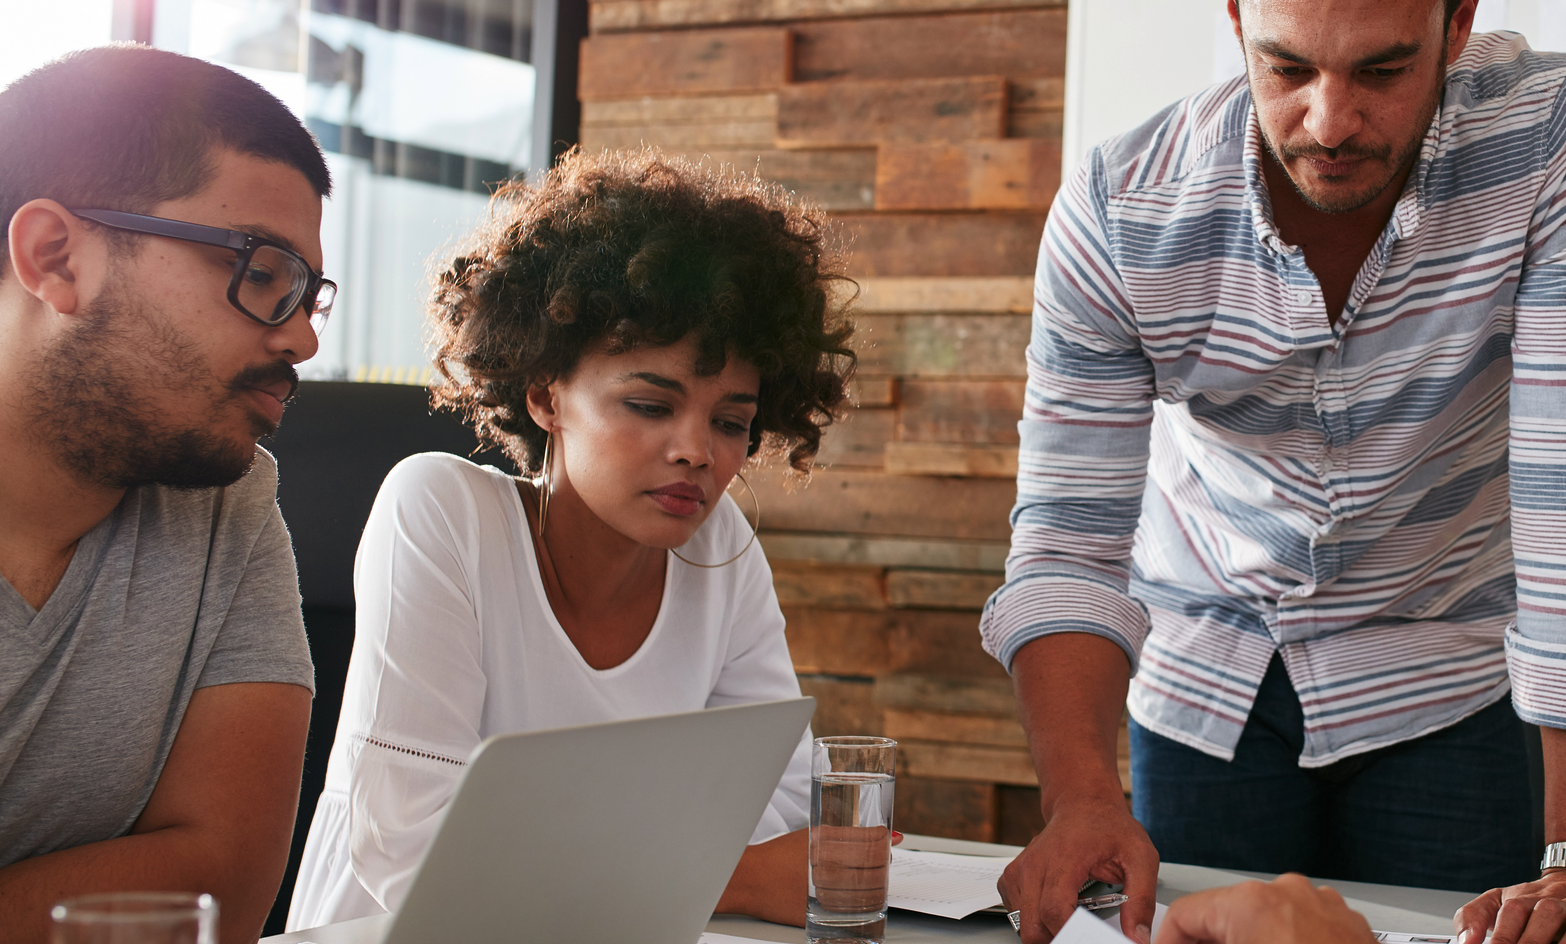
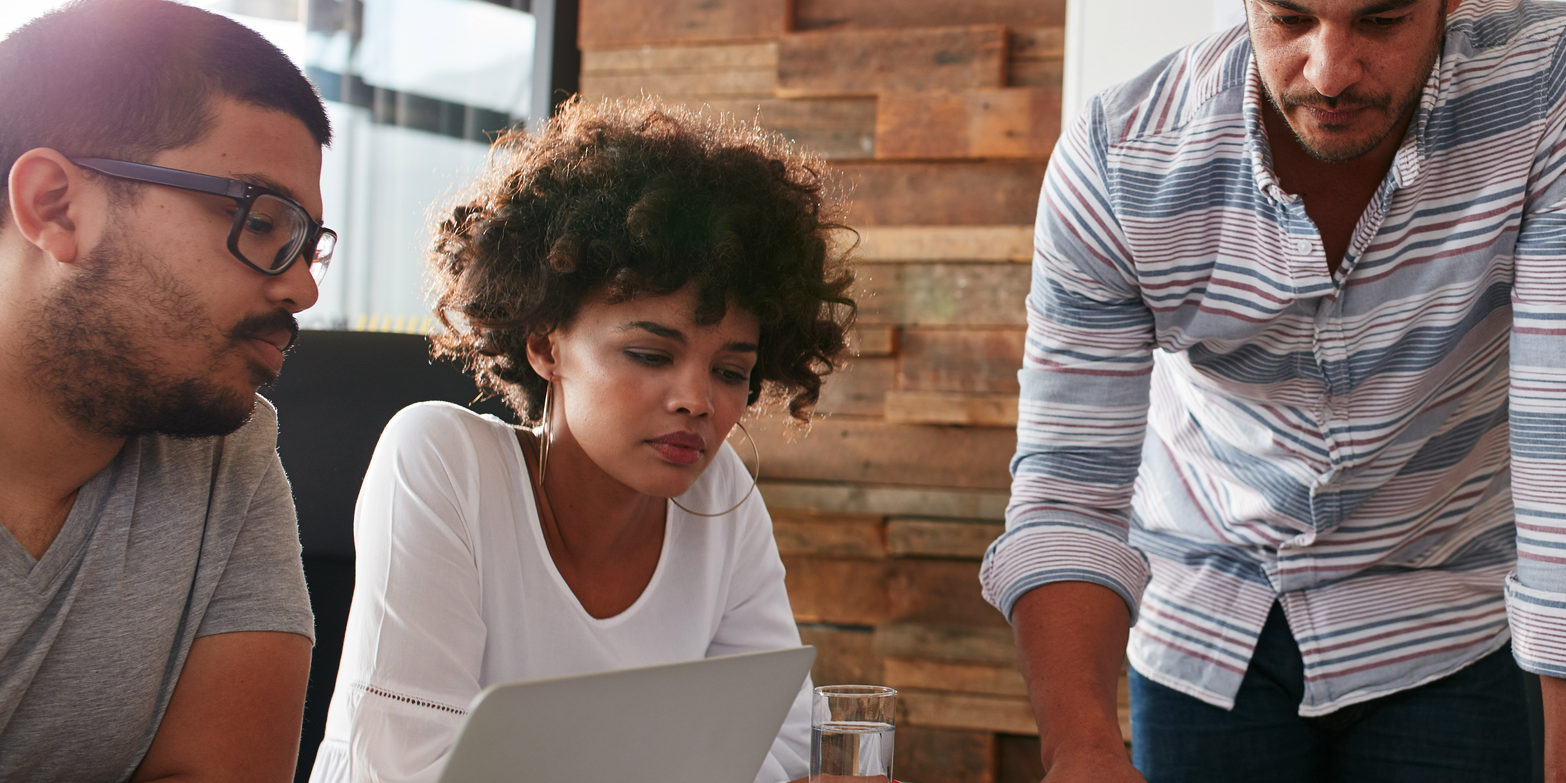
another approach to flexbox

diff --git a/styles.css b/styles.css
@@ -1,23 +1,22 @@
-:root {
-    --main:  rgb(245, 54, 29);
-    --secondary: rgb(199, 243, 252);
-    --highlight: white;
-    font-size: 45px;
-}
-
 body {
     display: flex;
     flex-direction: column;
 }
 
 header {
-    background-color: var(--main);
-    margin: -10px;
-    padding: 1.5% 1.5% 1.5% 3%;
-    border: none;
+
     display: flex;
     justify-content: center;
     flex-wrap: wrap;
+}
+
+h1, h2, h3 {
+    width: 100%;
+    text-align: center;
+}
+
+h2 {
+    text-align: center;
 }
 
 ul {
@@ -37,172 +36,93 @@ li {
 
 main {
     display: flex;
-    flex-wrap: wrap;
-}
-
-h1, h2, h3, h4, p {
-    font-family: monospace;
-}
-
-h1, h3 {
-    color: var(--highlight)
-}
-
-h1, h2 {
-    font-size: 60%;
-    text-align: center;
-}
-
-h2, h3{
-    color: var(--main);
-}
-
-h2 {
-    width: 110px;
-    margin: 10px;
-    padding: 20px;
-    background-color: var(--highlight);
-    box-shadow: -10px 10px 0px var(--secondary);
-}
-
-h2:hover {
-    color: var(--secondary);
-}
-
-h3 {
-    font-size: 80%;
-    text-align: center;
-    margin: 0px;
-    text-decoration: underline var(--secondary);
-    text-decoration-thickness: 6px;
-    text-underline-offset: 10px;
-}
-
-h4 {
-    font-size: 60%;
-    color: var(--main);
-}
-
-h4:hover {
-    color: var(--highlight);
-}
-
-p {
-    font-size: 50%;
-    line-height: 1.5;
-    margin: 0px;
-}
-
-a {
-    text-decoration: none;
-    color: var(--secondary);
-    font-weight: bold;
- }
-
- a:hover {
-    color: var(--main);
- }
-
- /* li a:hover {
-    color: var(--secondary);
-    position: absolute;
-    top: 10px;
-    right: 10px;
-} */
-
-#about-and-headshot {
-    display: flex;
+    flex-direction: column;
 }
 
 .row {
     display: flex;
     flex-wrap: wrap;
+ 
 }
 
-section, .section-header {
-    margin: 0px;
-    padding: 30px;
-    position: relative;
+.section-title {
+    padding: 10px;
+    margin: 10px;
+    background-color: aquamarine;
     width: 100%;
-
+    justify-content: center;
 }
 
-#headshot {
-    max-width: 30%;
-    float: right;
+.main-content {
+    padding: 10px;
+    margin: 10px;
+    background-color: aquamarine;
+    width: 100%;
 }
 
 img {
     width: 100%;
-    margin: 10px;
-    height: auto;
-    box-shadow: -10px 10px 0px var(--secondary);
 }
 
-.project-title {
-    position: absolute;
-    background-color: var(--secondary);
-    margin: 0px;
-    padding: 10px;;
-    bottom: 32px;
-}
-
-.contact-info {
+#contact-info {
     display: flex;
     justify-content: space-between;
 }
 
-footer {
-    text-align: center;
-    padding: 20px;
-    height: 20;
-    background-color: var(--secondary);
-    margin: -20px;
-}
-
-@media screen and (min-width: 576px) {
-    h1 {
-       font-size: 100%;
-    }
-    ul {
-        display: flex;
-        justify-content: center;
-    }
-    .small-image {
-        width: 50%;
-        height: auto;
-    }
-}
-
 @media screen and (min-width: 768px) {
-    .section-header {
-        width: 20%;
-    }
-    section {
-        width: 60%;
+
+    header {
+        background-color: aqua;
     }
     h3 {
         text-align: right;
     }
-    .small-image {
-        width: 50%;
-        height: auto;
+    .large-img {
+        min-height: 400px;
+        width: 100%;
     }
+    .main-content {
+        display: flex;
+        width: 60%;
+        justify-content: center;
+    }
+    .section-title {
+        width: 10%;
+        text-align: right;
+    }
+    #contact-info {
+        display: flex;
+        justify-content: space-between;
+    }
+    #about-text {
+        width: 60%;
+    }
+    
+    #about-photo {
+        width: 40%;
+    }
+    
+    .small-img {
+        width: 50%;
+    
+    }
+    
 }
   
   
 @media screen and (min-width: 992px) {
     header {
         justify-content: space-between;
+        background-color: green;
     }
-    .section-header {
-        width: 20%;
+    h1 {
+        text-align: left;
     }
-    section {
+    h3 {
+        text-align: right;
+    }
+    .main-content {
         width: 40%;
     }
-    .small-image {
-        width: 50%;
-        height: auto;
-    }
+
   }

diff --git a/index.html b/index.html
@@ -27,60 +27,41 @@
   </header>
 
   <main>
-
     <div class="row">
-        <section id="about" class="section-header">
+        <section class="section-title">
             <h3>about</h3>
         </section>
 
-        <section id="about-and-headshot">
-            <p>Lorem ipsum dolor sit amet, consectetur adipiscing elit. Proin urna dui, ultrices a euismod egestas, tincidunt ac tortor. Curabitur leo risus, malesuada a mauris nec, bibendum iaculis elit. Aliquam commodo dictum vehicula. Donec euismod in orci vestibulum dictum. Aliquam posuere, augue a volutpat egestas, metus ante interdum nisl, id dictum dui ipsum quis enim. Quisque erat est, tempor non ipsum et, finibus efficitur felis. Maecenas eget nunc a mi sagittis efficitur. Morbi diam nisi, congue quis nulla at, sodales blandit lorem. </p>
-            <img src="./assets/placeholder3.png" id="headshot">
+        <section class="main-content">
+            <div id="about-text"><p>Lorem ipsum dolor sit amet, consectetur adipiscing elit. Phasellus imperdiet, nulla et dictum interdum, nisi lorem egestas odio, vitae scelerisque enim ligula venenatis dolor. Maecenas nisl est, ultrices nec congue eget, auctor vitae massa. Fusce luctus vestibulum augue ut aliquet. Mauris ante ligula, facilisis sed ornare eu, lobortis in odio. </p></div>
+            <div id="about-photo"><img src="./assets/placeholder1.png"></div>
+            
         </section>
     </div>
 
     <div class="row">
-        <section id="work" class="section-header">
+        <section class="section-title">
             <h3>work</h3>
         </section>
 
-        <section>
-            <a href="https://aberger3647.github.io/module-01-challenge/" class="projects">
-                <h4 class="project-title">Horiseon</h4>
-                <img src="./horiseon.png" alt="Three professionals working in a meeting">
-            </a>
+        <section class="main-content">
+            <img src="./horiseon.png" class="large-img">
+            <img src="./assets/placeholder2.png" class="small-img">
+            <img src="./assets/placeholder3.png" class="small-img">
         </section>
     </div>
 
     <div class="row">
-        <section>
-            <a href="#">
-                <h4 class="project-title">Project 2</h4>
-                <img src="./assets/placeholder1.png" alt="Placeholder image" class="small-image">
-            </a>
-            <a href="#">
-                <h4 class="project-title">Project 3</h4>
-                <img src="./assets/placeholder2.png" alt="Placeholder image" class="small-image">
-            </a>
+        <section class="section-title">
+            <h3>contact</h3>
+        </section>
+
+        <section class="main-content" id="contact-info">
+            <p>727 504 4123</p>
+            <p>aberger3647@gmail.com</p>
+            <p>github</p>
         </section>
     </div>
-
-    <section>
-        <div class="row">
-            <section id="contact" class="section-header">
-                <h3>contact</h3>
-            </section>
-        </div>
-        <div class="row">
-            </section class="contact-info">
-                <p>727 504 4123</p>
-                <p>aberger3647@gmail.com</p>
-                <a href="https://github.com/aberger3647"><p>github</p></a>
-            <section>
-        </div>
-    </section>
-
-
   </main>
 
   <footer>
